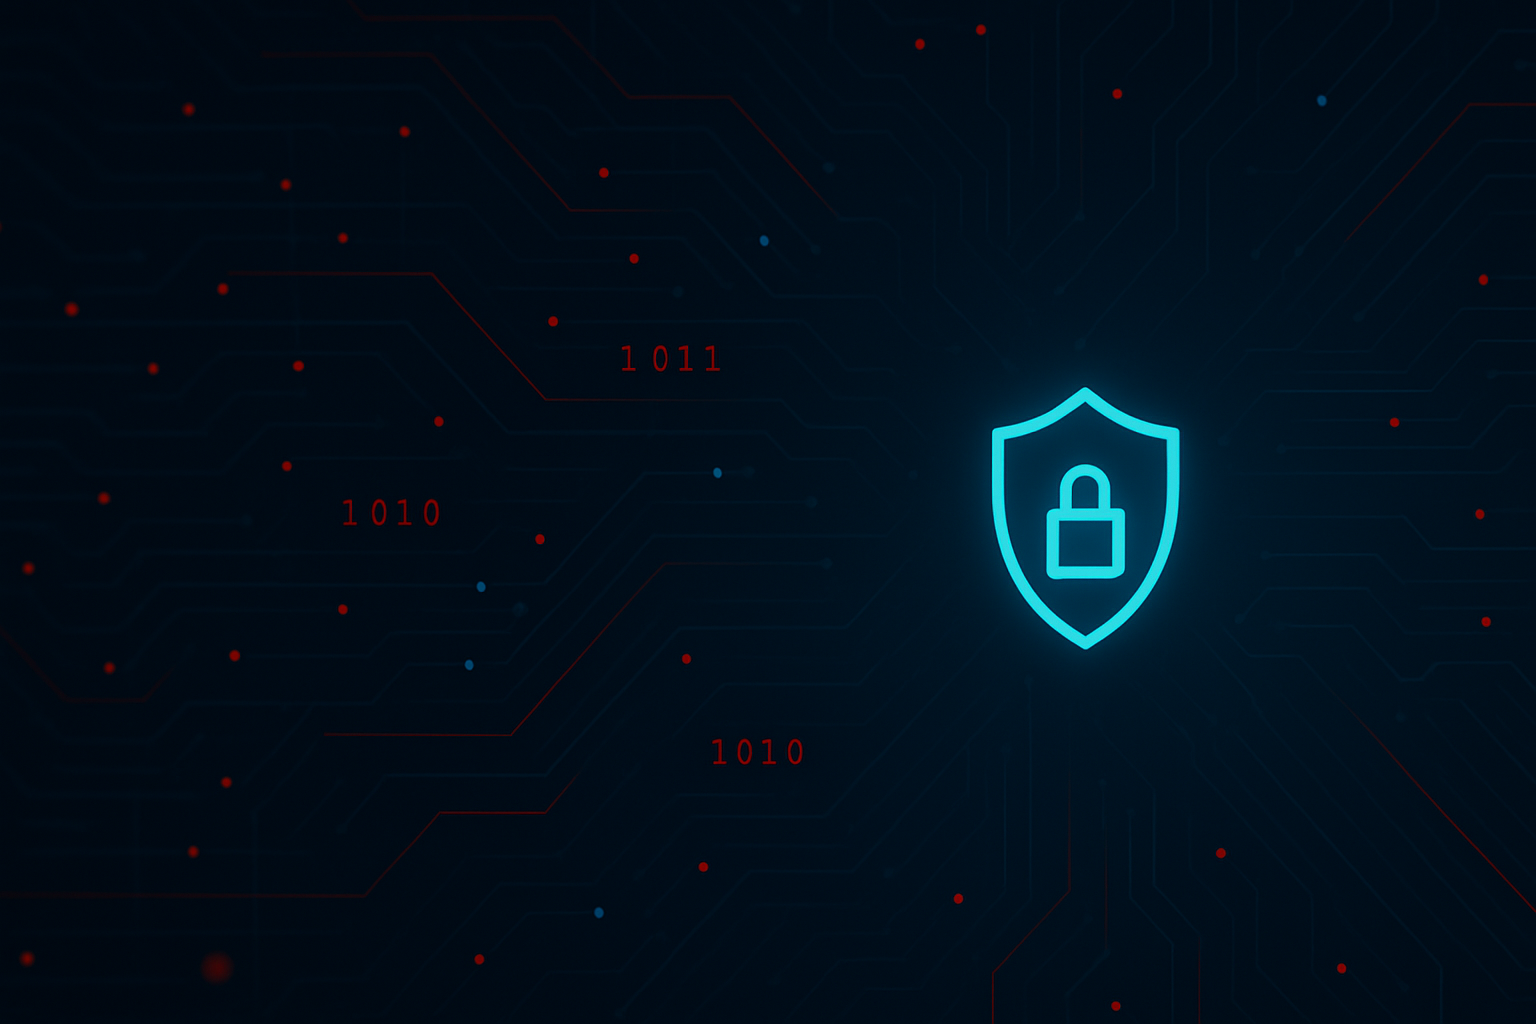
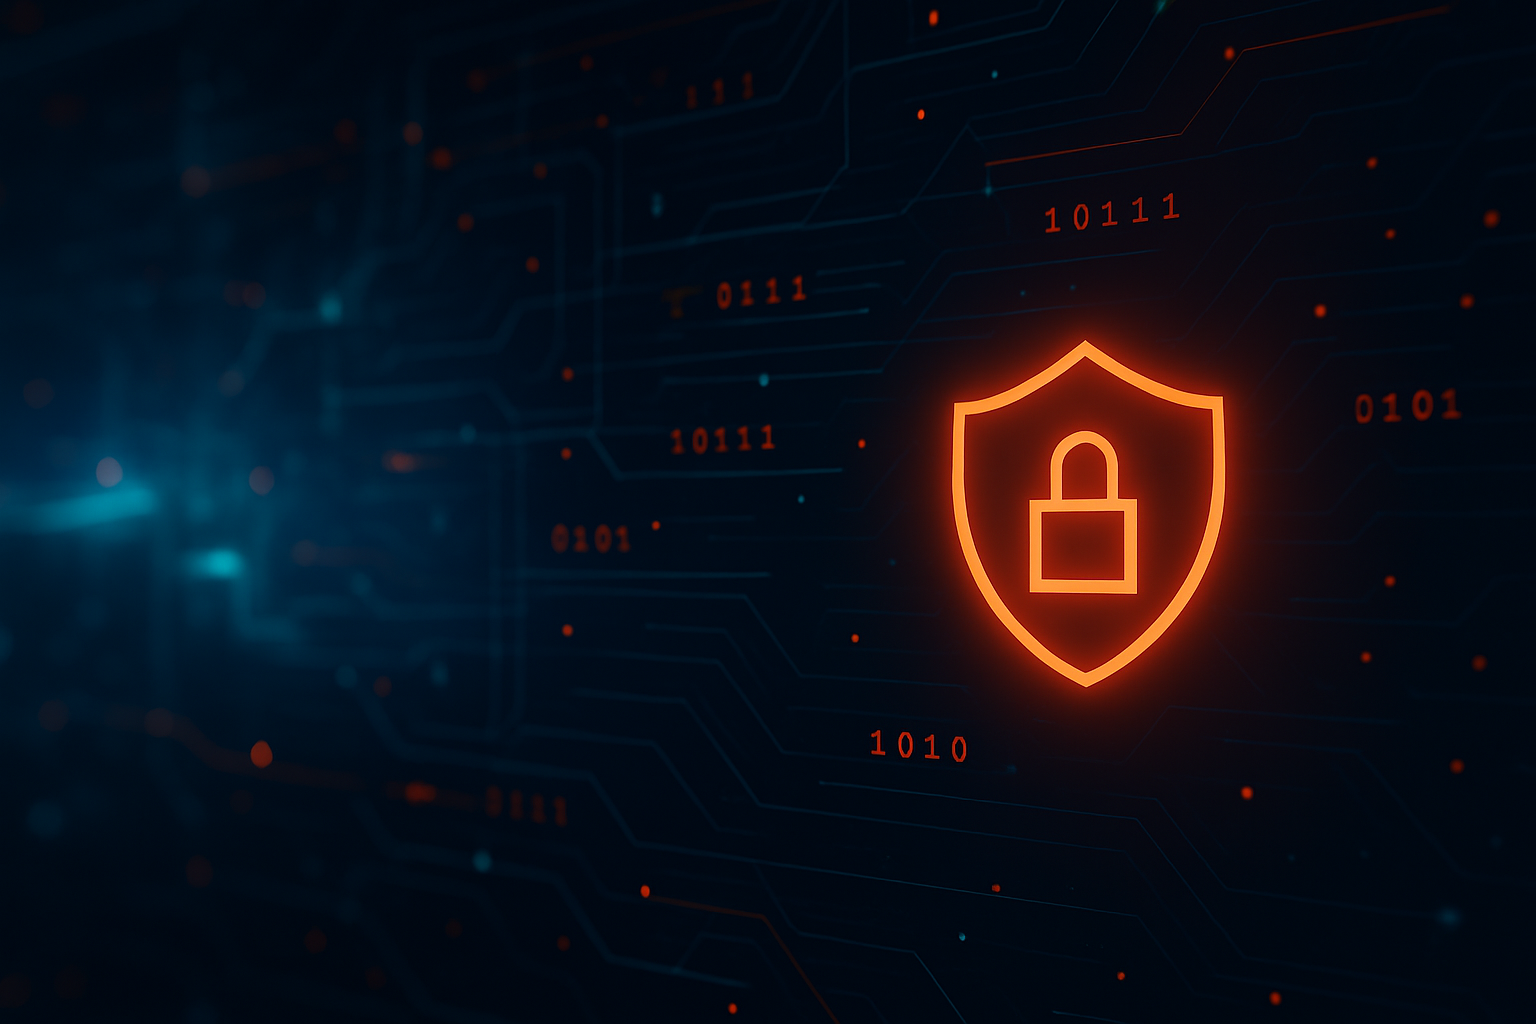
Updates Created contact page Edited site images Re-arranged items in IT Services header

diff --git a/managed-services.html b/managed-services.html
@@ -43,10 +43,10 @@
       <a href="#helpdesk">Helpdesk</a>
       <a href="#maintenance">Monitoring</a>
       <a href="#patching">Patching</a>
-      <a href="#assets">Assets & Licensing</a>
       <a href="#onboarding">On/Offboarding</a>
-      <a href="#network">Network & Wi-Fi</a>
       <a href="#cloud">Cloud Productivity</a>
+      <a href="#assets">Assets & Licensing</a>
+      <a href="#network">Network & Wi-Fi</a>
       <a href="#voip">VoIP</a>
       <a href="#backup-dr">Backup & DR</a>
       <a href="#projects">IT Projects</a>
@@ -266,6 +266,64 @@
       </div>
     </section>
 
+    <!-- User On/Offboarding -->
+    <section id="onboarding" class="section">
+      <div class="container">
+        <h2>User On/Offboarding</h2>
+        <p>New hires ready on day one; departures handled securely. Automation keeps accounts, access, and equipment consistent.</p>
+
+        <ol class="ms-steps">
+          <li>
+            <h4>🎒&nbsp; Onboarding</h4>
+            <p>Accounts, groups, licensing, and devices pre-loaded with apps.</p>
+          </li>
+          <li>
+            <h4>🔐&nbsp; Access Governance</h4>
+            <p>Role-based access, MFA & Conditional Access, periodic reviews.</p>
+          </li>
+          <li>
+            <h4>🧹&nbsp; Offboarding</h4>
+            <p>Disable, retain, transfer data, and wipe devices cleanly.</p>
+          </li>
+        </ol>
+      </div>
+    </section>
+    
+    <!-- Cloud Productivity (distinct icon cards) -->
+    <section id="cloud" class="section">
+      <div class="container">
+        <h2>Cloud Productivity (Microsoft&nbsp;365 / Google)</h2>
+        <p>Keep collaboration secure and tidy. We manage identities, policies, and licensing so your team can focus on the work.</p>
+
+        <div class="grid grid-3 ms-controlpacks">
+          <article class="card no-lift">
+            <h3>🔐&nbsp; Identity & Security</h3>
+            <ul class="ms-use-checks">
+              <li>Azure AD / Google Workspace</li>
+              <li>MFA & Conditional Access</li>
+              <li>Baseline hardening & alerts</li>
+            </ul>
+          </article>
+          <article class="card no-lift">
+            <h3>📂&nbsp; Collaboration</h3>
+            <ul class="ms-use-checks">
+              <li>Teams / SharePoint / Drive governance</li>
+              <li>Mailbox, groups, retention</li>
+              <li>DLP & sharing controls</li>
+            </ul>
+          </article>
+          <article class="card no-lift">
+            <h3>🧾&nbsp; Licensing & Enablement</h3>
+            <ul class="ms-use-checks">
+              <li>Right-sized plans</li>
+              <li>Security training</li>
+              <li>Admin workshops</li>
+            </ul>
+          </article>
+        </div>
+      </div>
+    </section>
+
     <!-- Asset & License Management -->
     <section id="assets" class="section section--alt">
       <div class="container panel-stack">
@@ -304,31 +362,8 @@
       </div>
     </section>
 
-    <!-- User On/Offboarding -->
-    <section id="onboarding" class="section">
-      <div class="container">
-        <h2>User On/Offboarding</h2>
-        <p>New hires ready on day one; departures handled securely. Automation keeps accounts, access, and equipment consistent.</p>
-
-        <ol class="ms-steps">
-          <li>
-            <h4>🎒&nbsp; Onboarding</h4>
-            <p>Accounts, groups, licensing, and devices pre-loaded with apps.</p>
-          </li>
-          <li>
-            <h4>🔐&nbsp; Access Governance</h4>
-            <p>Role-based access, MFA & Conditional Access, periodic reviews.</p>
-          </li>
-          <li>
-            <h4>🧹&nbsp; Offboarding</h4>
-            <p>Disable, retain, transfer data, and wipe devices cleanly.</p>
-          </li>
-        </ol>
-      </div>
-    </section>
-
     <!-- Network & Wi-Fi (unique layout) -->
-    <section id="network" class="section section--alt">
+    <section id="network" class="section section">
       <div class="container">
         <h2>Network & Wi-Fi Management</h2>
         <div class="split">
@@ -354,41 +389,6 @@
               <div><span>&lt;24h</span> Site turn-up</div>
             </div>
           </aside>
-        </div>
-      </div>
-    </section>
-
-    <!-- Cloud Productivity (distinct icon cards) -->
-    <section id="cloud" class="section">
-      <div class="container">
-        <h2>Cloud Productivity (Microsoft&nbsp;365 / Google)</h2>
-        <p>Keep collaboration secure and tidy. We manage identities, policies, and licensing so your team can focus on the work.</p>
-
-        <div class="grid grid-3 ms-controlpacks">
-          <article class="card no-lift">
-            <h3>🔐&nbsp; Identity & Security</h3>
-            <ul class="ms-use-checks">
-              <li>Azure AD / Google Workspace</li>
-              <li>MFA & Conditional Access</li>
-              <li>Baseline hardening & alerts</li>
-            </ul>
-          </article>
-          <article class="card no-lift">
-            <h3>📂&nbsp; Collaboration</h3>
-            <ul class="ms-use-checks">
-              <li>Teams / SharePoint / Drive governance</li>
-              <li>Mailbox, groups, retention</li>
-              <li>DLP & sharing controls</li>
-            </ul>
-          </article>
-          <article class="card no-lift">
-            <h3>🧾&nbsp; Licensing & Enablement</h3>
-            <ul class="ms-use-checks">
-              <li>Right-sized plans</li>
-              <li>Security training</li>
-              <li>Admin workshops</li>
-            </ul>
-          </article>
         </div>
       </div>
     </section>

diff --git a/contact.html b/contact.html
@@ -1,0 +1,156 @@
+<!DOCTYPE html>
+<html lang="en">
+<head>
+  <meta charset="utf-8" />
+  <meta name="viewport" content="width=device-width, initial-scale=1" />
+  <title>Contact | System Alternatives</title>
+  <meta name="description" content="Call, text, or email System Alternatives. Mailing address and office map (visits by appointment)." />
+  <link rel="preconnect" href="https://fonts.googleapis.com">
+  <link rel="preconnect" href="https://fonts.gstatic.com" crossorigin>
+  <link href="https://fonts.googleapis.com/css2?family=Inter:wght@400;600;700;800&display=swap" rel="stylesheet">
+  <link rel="stylesheet" href="assets/css/base.css" />
+  <link rel="stylesheet" href="assets/css/contact.css" />
+  <script src="assets/js/includes.js" defer></script>
+</head>
+<body>
+
+  <!-- Shared header -->
+  <div data-include="partials/header.html"></div>
+
+  <!-- Hero -->
+  <section class="hero hero--light hero--bg hero--enhanced hero--compact hero--singlecol contact-hero">
+    <div class="container hero__inner">
+      <div class="hero__copy">
+        <span class="kicker">Contact</span>
+        <h1>We’re here to help.</h1>
+        <p class="lead">
+          Call, text, or email—whatever’s easiest. Our office map is provided for scheduled visits or deliveries.
+        </p>
+        <div class="hero__cta">
+          <a class="btn btn--primary" href="tel:+15038788000">Call 503-878-8000</a>
+        </div>
+        <ul class="hero__badges">
+          <li>Fast, friendly support</li>
+          <li>Portland–Vancouver & beyond</li>
+        </ul>
+      </div>
+    </div>
+  </section>
+
+  <main>
+
+    <!-- Contact options -->
+    <section class="section" id="contact-options">
+      <div class="container">
+        <h2>Get in touch</h2>
+        <div class="grid grid-3 contact-cards">
+          <article class="card contact-card no-lift">
+            <h3>📞 Call</h3>
+            <p class="muted">Give us a call, we're here to help.</p>
+            <a class="btn btn--primary" href="tel:+15038788000">Call 503-878-8000</a>
+          </article>
+
+          <article class="card contact-card no-lift">
+            <h3>💬 Text</h3>
+            <p class="muted">Quick questions? Send a text.</p>
+            <a class="btn btn--outline" href="sms:+15038787000">Text 503-878-7000</a>
+          </article>
+
+          <article class="card contact-card no-lift">
+            <h3>✉ Email</h3>
+            <p class="muted">Send details, screenshots, or requests.</p>
+            <a class="btn btn--outline" href="mailto:techs@systemalternatives.net">techs@systemalternatives.net</a>
+          </article>
+        </div>
+      </div>
+    </section>
+
+    <!-- Mailing address + office map -->
+    <section class="section section--alt" id="visit">
+      <div class="container">
+        <div class="grid grid-2 contact-visit">
+          <!-- Left column: title + address (centered vertically on desktop) -->
+          <div class="visit-info">
+            <h2 class="visit-title">
+              Mailing address <span class="muted small-note">(office visits by appointment)</span>
+            </h2>
+
+            <address class="mailing-address">
+              <strong>System Alternatives</strong><br>
+              PO Box 152<br>
+              Scappoose, OR 97056
+            </address>
+
+            <!-- <p class="muted">
+              For scheduled office visits or deliveries, use the map. We primarily work remotely and on-site with clients.
+            </p> -->
+          </div>
+
+          <!-- Map (office location) -->
+          <div class="map-wrap">
+            <iframe
+              title="Map to System Alternatives office"
+              loading="lazy"
+              referrerpolicy="no-referrer-when-downgrade"
+              src="https://www.google.com/maps?q=36061+Construction+Way,+St+Helens,+Oregon+97051&output=embed">
+            </iframe>
+          </div>
+
+          <!-- Mobile-only: Open in Maps (below the map on phones) -->
+          <div class="map-cta">
+            <a id="open-maps-btn" class="btn btn--primary only-mobile" href="#" rel="noopener">
+              Open in Maps
+            </a>
+          </div>
+        </div>
+      </div>
+    </section>
+
+  </main>
+
+  <!-- Shared footer -->
+  <div data-include="partials/footer.html"></div>
+
+  <!-- Mobile-only deep link to office location -->
+  <script>
+    (function(){
+      const btn = document.getElementById('open-maps-btn');
+      if (!btn) return;
+
+      const officeAddr = "36061 Construction Way, St. Helens, OR 97051";
+      const ua = navigator.userAgent || "";
+      const isIOS = /iPhone|iPad|iPod/i.test(ua);
+      const isAndroid = /Android/i.test(ua);
+
+      let href = "https://www.google.com/maps?q=" + encodeURIComponent(officeAddr);
+      if (isIOS) {
+        href = "http://maps.apple.com/?q=" + encodeURIComponent(officeAddr);
+      } else if (isAndroid) {
+        href = "geo:0,0?q=" + encodeURIComponent(officeAddr);
+      }
+      btn.setAttribute("href", href);
+    })();
+  </script>
+
+  <!-- Structured data (mailing address) -->
+  <script type="application/ld+json">
+  {
+    "@context": "https://schema.org",
+    "@type": "LocalBusiness",
+    "name": "System Alternatives",
+    "telephone": "+1-503-878-8000",
+    "email": "techs@systemalternatives.net",
+    "address": {
+      "@type": "PostalAddress",
+      "streetAddress": "PO Box 152",
+      "addressLocality": "Scappoose",
+      "addressRegion": "OR",
+      "postalCode": "97056",
+      "addressCountry": "US"
+    },
+    "url": "https://systemalternatives.net"
+  }
+  </script>
+
+</body>
+</html>

diff --git a/assets/css/contact.css b/assets/css/contact.css
@@ -1,0 +1,71 @@
+/* Contact — page-only */
+
+/* Hero image */
+.contact-hero{ --hero-bg: url('/assets/img/contact-hero.png'); }
+
+/* Section rhythm */
+#contact-options.section, #visit.section{
+  padding-top: 48px; padding-bottom: 48px;
+}
+
+/* Cards */
+.contact-cards .contact-card{ text-align: left; }
+.contact-card__icon{ font-size: 2rem; line-height: 1; margin-bottom: 6px; }
+
+/* ===== Mailing address + map layout ===== */
+.contact-visit{
+  display: grid;
+  grid-template-columns: 1fr 1fr;
+  grid-template-areas: "info map";
+  align-items: center;          /* center columns vertically vs. map */
+  gap: 16px;
+}
+
+.visit-info{ grid-area: info; }
+.map-wrap{ grid-area: map; }
+.map-cta{ grid-area: btn; display: none; }  /* shown on mobile */
+
+.visit-title{ margin: 0 0 8px; }
+.mailing-address{ font-style: normal; color: var(--gray-dark); margin: 6px 0 10px; }
+.small-note{ font-weight: 600; font-size: .9rem; color: var(--gray-dark); }
+
+/* Center the left column contents vertically on desktop */
+@media (min-width: 901px){
+  .visit-info{
+    display: flex;
+    flex-direction: column;
+    justify-content: center;
+    min-height: 100%;
+  }
+}
+
+/* Responsive map with rounded corners */
+.map-wrap{
+  width: 100%;
+  aspect-ratio: 16 / 9;
+  border: 1px solid var(--border);
+  border-radius: var(--radius-card);
+  overflow: hidden; background: #fff;
+}
+.map-wrap iframe{ width: 100%; height: 100%; border: 0; display: block; }
+
+/* Mobile-only utility */
+.only-mobile{ display: none; }
+
+/* Mobile stack: Address -> Map -> button */
+@media (max-width: 900px){
+  .contact-visit{
+    grid-template-columns: 1fr;
+    grid-template-areas:
+      "info"
+      "map"
+      "btn";
+  }
+
+  .map-cta{ display: block; }
+  .only-mobile{ display: inline-flex; }
+
+  /* small breathing room between pieces */
+  .visit-info{ margin-bottom: 10px; }
+  .map-cta{ margin-top: 10px; }
+}

diff --git a/partials/header.html b/partials/header.html
@@ -112,11 +112,7 @@
 
         <!-- About -->
         <li class="menu__item has-dropdown" role="none">
-          <a class="menu__link" aria-haspopup="true" aria-expanded="false">About Us</a>
-          <ul class="dropdown" role="menu">
-            <li><a href="/about.html">Our Story</a></li>
-            <li><a href="/contact.html">Contact</a></li>
-          </ul>
+          <a class="menu__link" aria-haspopup="true" aria-expanded="false" href="/contact.html">Contact</a>
         </li>
       </ul>
     </nav>
